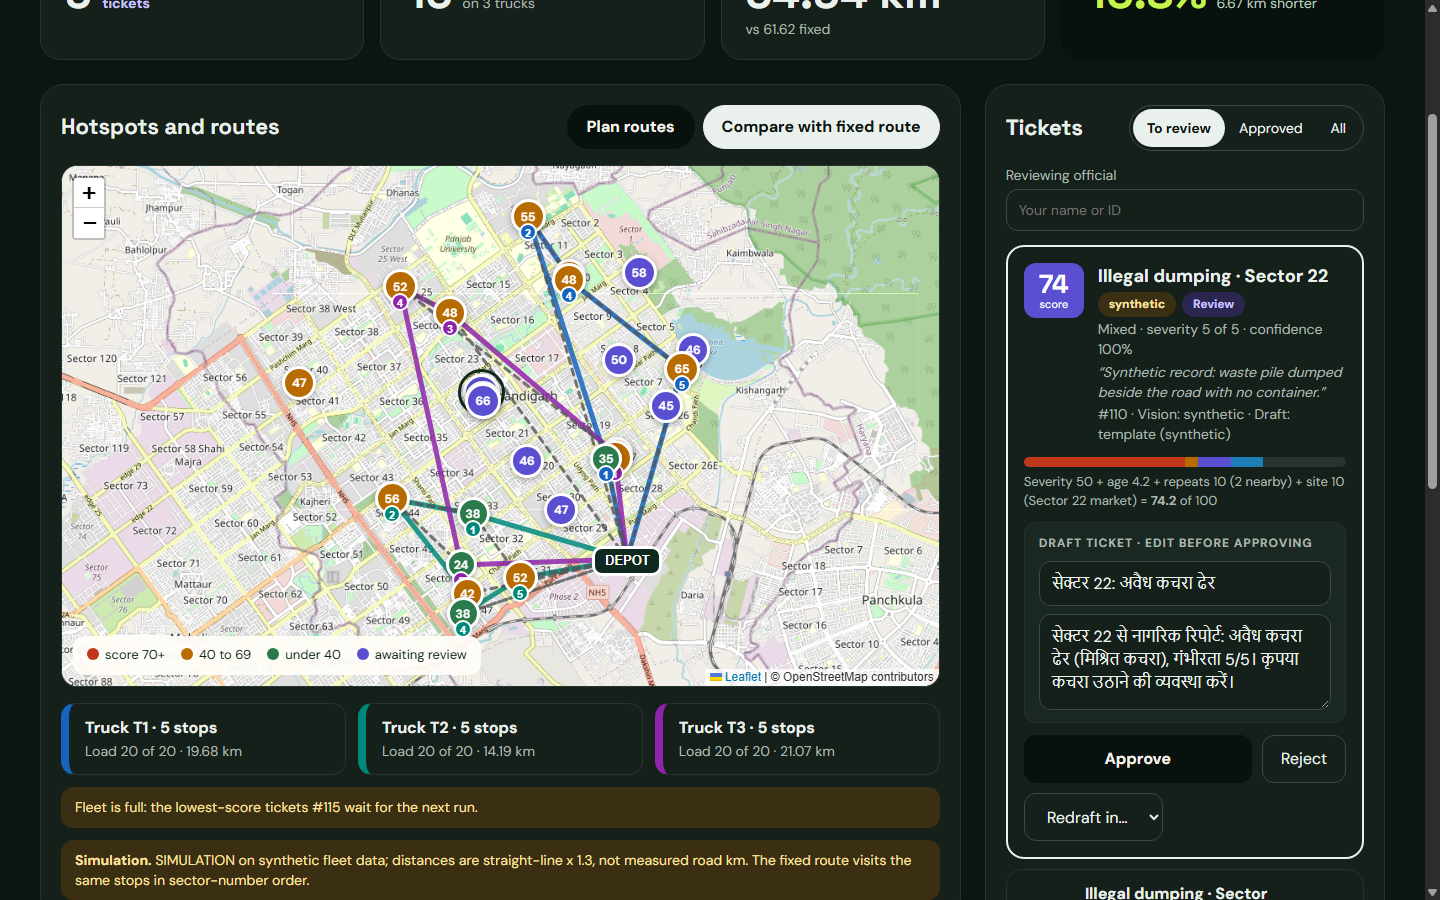
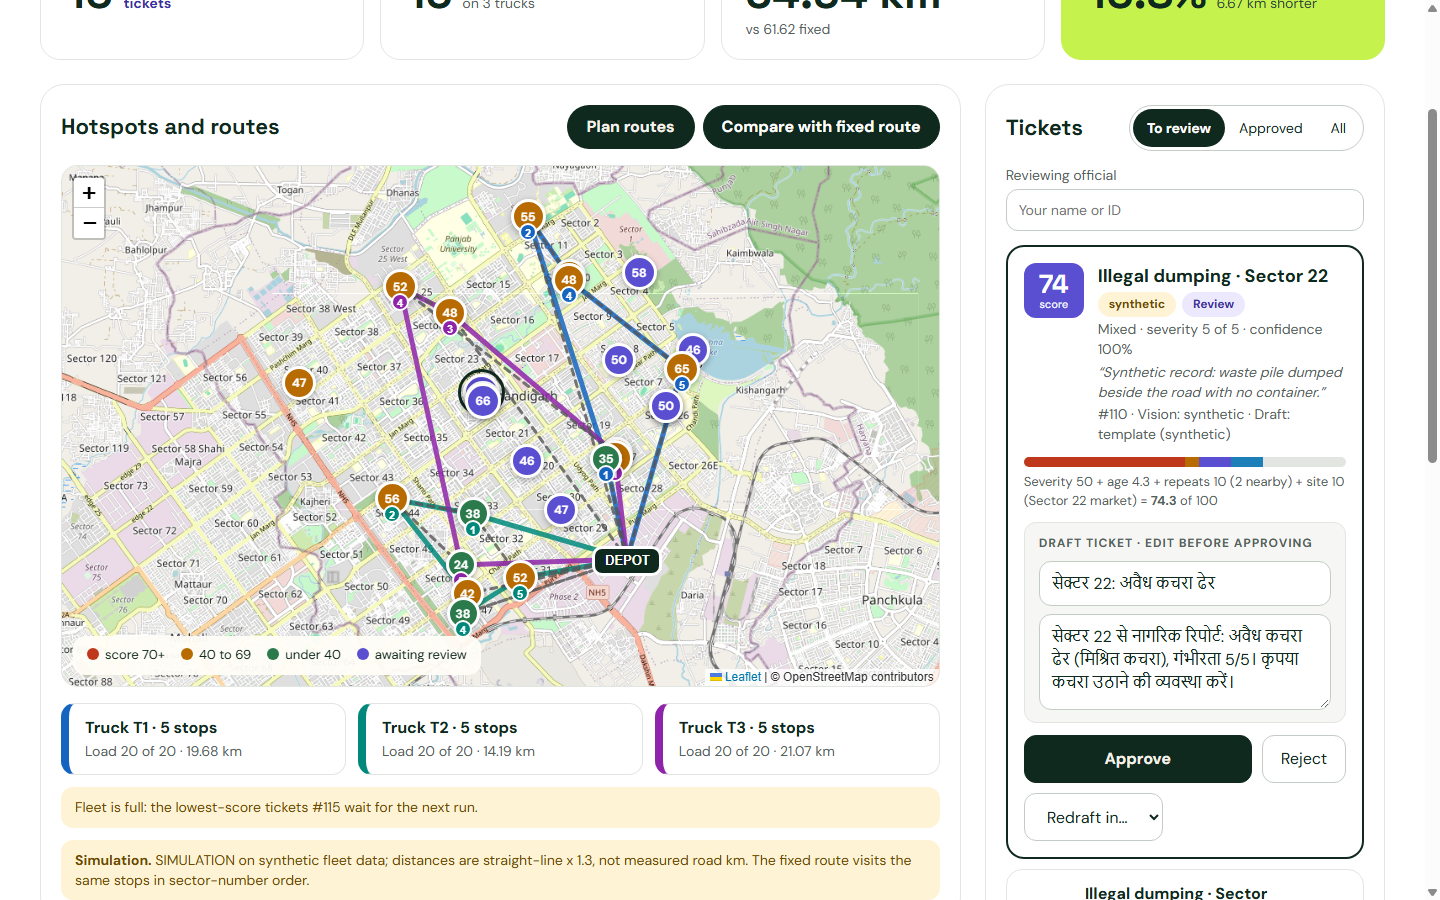
White theme: light UI regardless of system dark mode, white top bar, lime highlight tile
Claude-Session: https://claude.ai/code/session_01MHV6Sgc4rheHk7DdVkwCVd

diff --git a/saafroute/static/style.css b/saafroute/static/style.css
@@ -1,11 +1,11 @@
 :root {
-  --bg: #f5f2ea;
-  --card: #fffdf7;
-  --card-2: #fbf9f3;
+  --bg: #ffffff;
+  --card: #ffffff;
+  --card-2: #f6f7f4;
   --ink: #10291f;
   --muted: #53635a;
-  --line: #e3ded2;
-  --line-2: #c9c3b4;
+  --line: #e2e6e1;
+  --line-2: #c4ccc6;
   --forest: #10291f;
   --forest-2: #173a2e;
   --lime: #c6f24e;
@@ -19,14 +19,7 @@
   --warn-ink: #6b4a00;
   --radius: 24px;
   font-size: 16px;
-}
-@media (prefers-color-scheme: dark) {
-  :root:not([data-theme="light"]) {
-    --bg: #0d1511; --card: #16201b; --card-2: #1b2721; --ink: #eaf0ec; --muted: #a9b8af; --line: #27342d; --line-2: #3a4a41;
-    --forest: #08110d; --forest-2: #10291f;
-    --high: #ff8a6b; --mid: #f0b24a; --low: #62c28b; --pend: #9a90ff;
-    --pend-bg: #2a2650; --pend-ink: #c9c3ff; --warn-bg: #3a2f12; --warn-ink: #ffe3a1;
-  }
+  color-scheme: light;
 }
 * { box-sizing: border-box; }
 html, body { margin: 0; background: var(--bg); color: var(--ink); overflow-x: hidden;
@@ -39,31 +32,31 @@ a:focus-visible, .chip-toggle:focus-within, .drop:focus-within { outline: 3px so
 
 /* ---------- top bar ---------- */
 .top { display: flex; flex-wrap: wrap; align-items: center; justify-content: space-between; gap: 16px;
-  padding: 18px 40px; background: var(--forest); color: #f5f2ea; }
+  padding: 18px 40px; background: #ffffff; color: var(--ink); border-bottom: 1px solid var(--line); }
 .brand { display: flex; align-items: center; gap: 14px; }
-.logo { width: 44px; height: 44px; border-radius: 12px; background: var(--lime); color: #10291f; display: grid; place-items: center; }
+.logo { width: 44px; height: 44px; border-radius: 12px; background: var(--forest); color: var(--lime); display: grid; place-items: center; }
 .top h1 { font-size: 1.5rem; }
-.tag { margin: 2px 0 0; font-size: .875rem; color: #b6c8bd; }
+.tag { margin: 2px 0 0; font-size: .875rem; color: var(--muted); }
 .top-right { display: flex; flex-wrap: wrap; align-items: center; gap: 12px; }
 .status { display: flex; flex-wrap: wrap; gap: 8px; font-size: .8125rem; }
-.status .chip { border: 1px solid #2d5546; border-radius: 999px; padding: 6px 12px; color: #d9e4de; }
-.status .ok::before { content: "● "; color: var(--lime); }
-.status .bad::before { content: "● "; color: #ff8a6b; }
+.status .chip { border: 1px solid var(--line-2); border-radius: 999px; padding: 6px 12px; color: var(--ink); }
+.status .ok::before { content: "● "; color: var(--low); }
+.status .bad::before { content: "● "; color: var(--high); }
 .cta { display: inline-flex; align-items: center; gap: 8px; min-height: 44px; padding: 0 20px; border: 0; border-radius: 999px;
-  background: var(--lime); color: #10291f; font-weight: 700; cursor: pointer; }
-.cta:hover { filter: brightness(1.05); }
+  background: var(--forest); color: #ffffff; font-weight: 700; cursor: pointer; }
+.cta:hover { background: var(--forest-2); }
 .banner { background: var(--warn-bg); color: var(--warn-ink); padding: 10px 40px; font-size: .875rem; }
 
 /* ---------- page ---------- */
 .page { padding: 28px 40px 40px; display: flex; flex-direction: column; gap: 24px; max-width: 1760px; margin: 0 auto; }
 .stat-strip { display: grid; grid-template-columns: repeat(auto-fit, minmax(220px, 1fr)); gap: 16px; }
 .tile { background: var(--card); border: 1px solid var(--line); border-radius: 20px; padding: 20px 24px; }
-.tile.dark { background: var(--forest); border-color: var(--forest); color: #f5f2ea; }
+.tile.dark { background: var(--lime); border-color: var(--lime); color: var(--ink); }
 .t-label { font-size: .875rem; color: var(--muted); }
-.tile.dark .t-label, .tile.dark small { color: #b6c8bd; }
+.tile.dark .t-label, .tile.dark small { color: #2e4a3c; }
 .t-val { display: flex; align-items: baseline; flex-wrap: wrap; gap: 4px 10px; margin-top: 6px; }
 .t-val span { font-family: "Space Grotesk", sans-serif; font-weight: 700; font-size: 2.75rem; line-height: 1; }
-.tile.dark .t-val span { color: var(--lime); }
+.tile.dark .t-val span { color: var(--ink); }
 .t-val small { font-size: .875rem; color: var(--muted); }
 .t-val small.accent { color: var(--pend-ink); font-weight: 700; }
 
